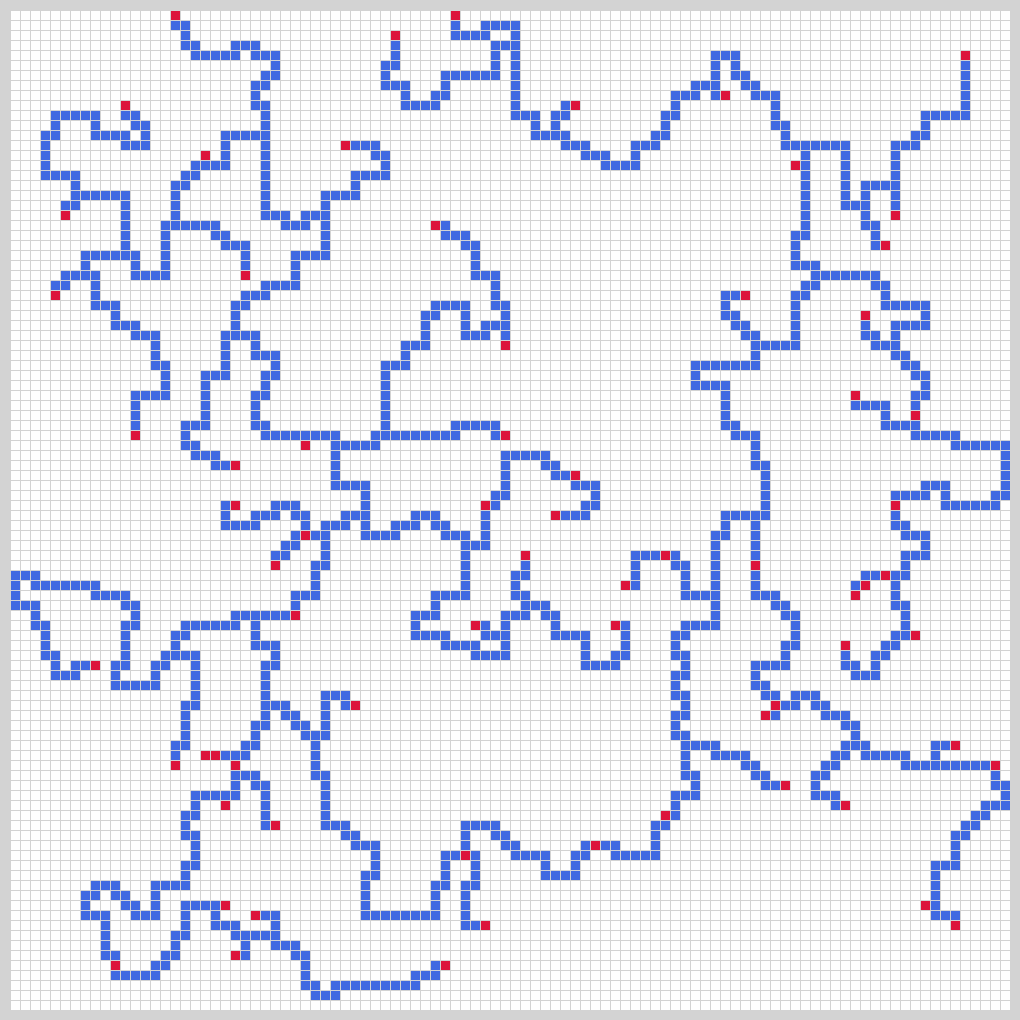
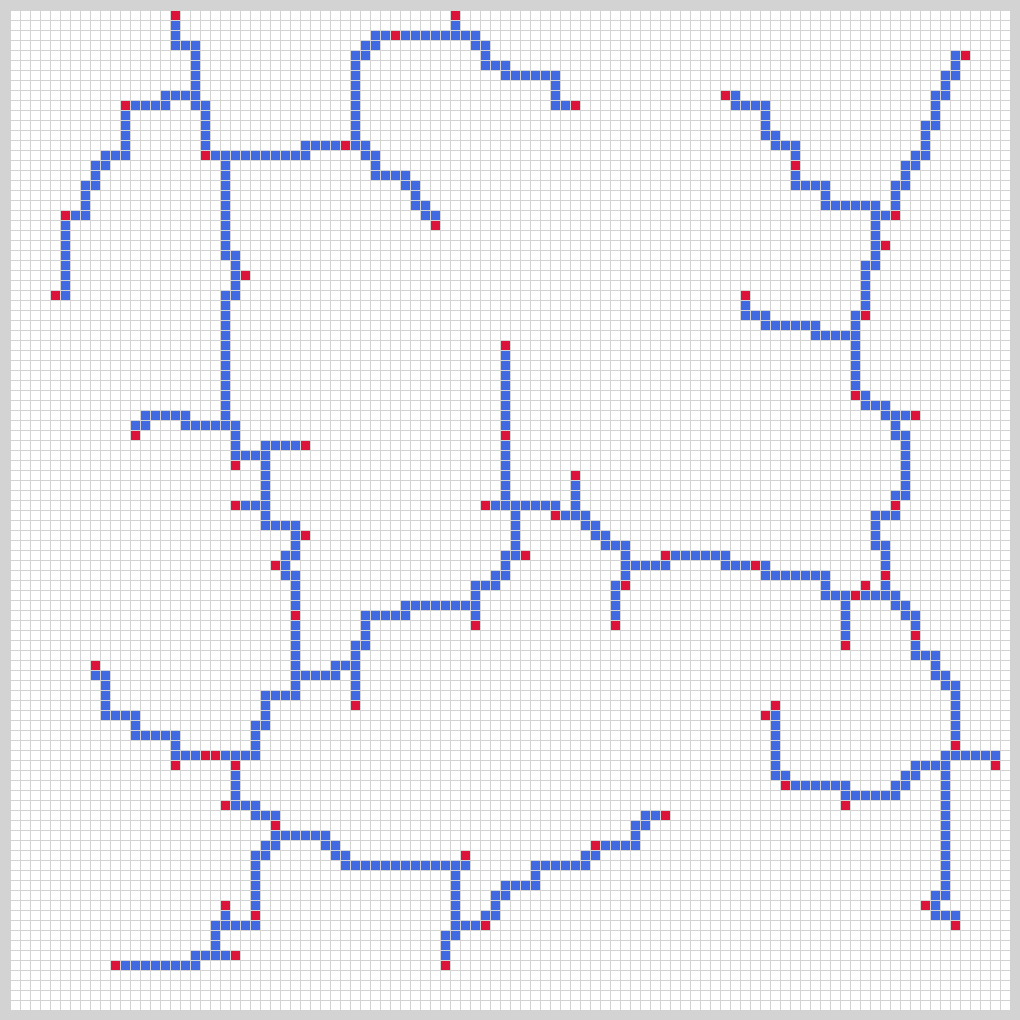
RectilinearSteinerTreeを試しにやってみた．

Changed region(s): [[0.0, 0.0, 1.0, 1.0], [0.9118, 0.0608, 0.9725, 0.1216], [0.5775, 0.5775, 0.6078, 0.6078]]

diff --git a/RectilinearSteinerTree/tester/Tester.java b/RectilinearSteinerTree/tester/Tester.java
@@ -164,7 +164,7 @@ public class Tester {
                 dfs(posX[0], posY[0]);
                 for (int i = 0; i < N; i++) {
                     if (!Connect[posX[i]][posY[i]]) {
-                        System.err.println("Panels are not consolidated.");
+                        System.err.println("Panels are not connected.");
                         return -1;
                     }
                 }

diff --git a/RectilinearSteinerTree/README.md b/RectilinearSteinerTree/README.md
@@ -42,19 +42,18 @@ $ java -jar Tester.jar -exec "<command>" -seed <seed>
 ```
 
 ## 目安？
-ランダムにパネルを置いて連結にしたら以下のようになった．  
+適当に焼き鈍したら以下のようになった．
 
-1) 1234
-2) 1613
-3) 1312
-4) 932
-5) 1192
-6) 1263
-7) 1743
-8) 1615
-9) 1204
-10) 1274
-
+1) 629
+2) 854
+3) 664
+4) 480
+5) 563
+6) 688
+7) 934
+8) 850
+9) 581
+10) 624
 
 ##  参考文献
 
